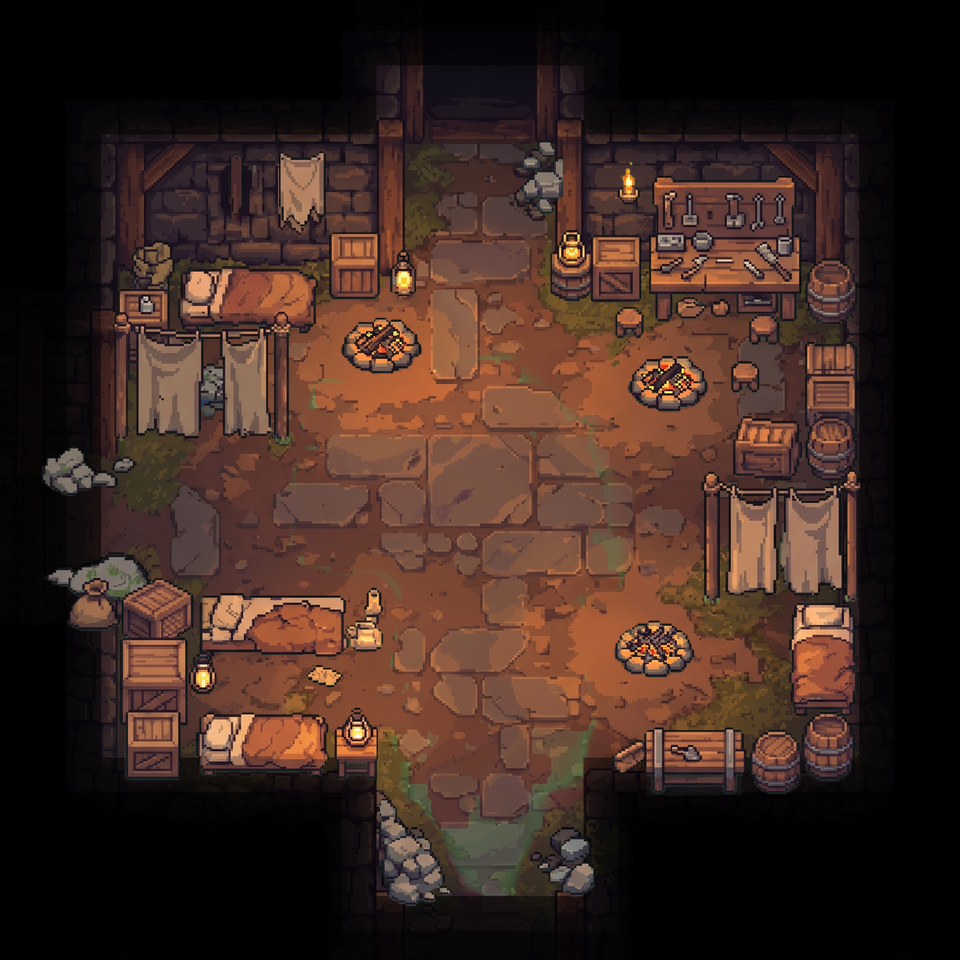
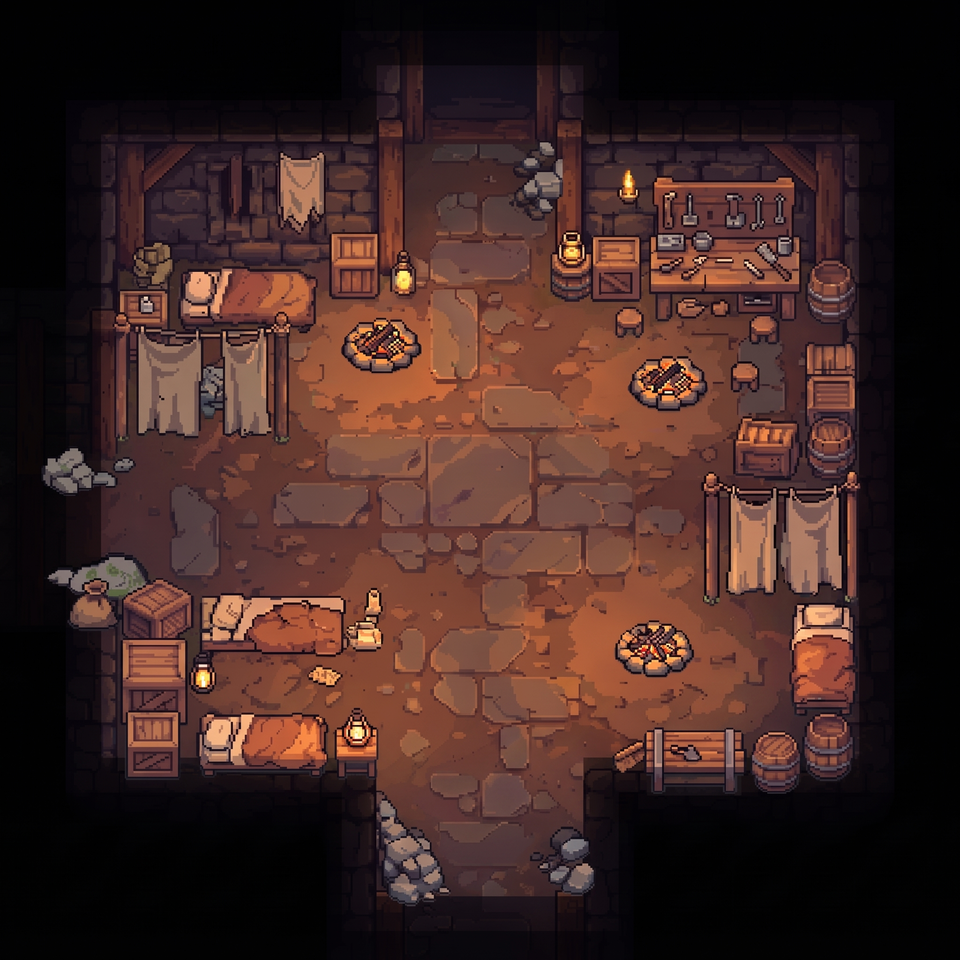
Sığınağın arka planındaki hatalı yeşil lekeleri temizle (v10.3)
Kullanıcının ürettiği yeni 2K görsel 960x960'a indirgenip haven.png
olarak kaydedildi - zeminde dağınık duran yeşil (yosun benzeri) hata
lekeleri kalktı. Oda geometrisi/mobilya konumları PİKSEL HİZASINDA aynı
kaldığı doğrulandı (dış duvar sınırı eski/yeni arasında ~1px fark),
yani world.ts'teki ZEMIN ve blockers'a hiç dokunulmadı - kullanıcı
zaten "üstündeki engeller aynı kalsın" dedi.

diff --git a/lib/game/data.ts b/lib/game/data.ts
@@ -1,6 +1,6 @@
 /** Oyun surumu. Her yayina cikan degisiklikte 0.1 artar: 0.1, 0.2 ... 0.9,
  *  sonra 1.0, 1.1 diye devam eder. Ekranin sol altinda gorunur. */
-export const SURUM='10.2';
+export const SURUM='10.3';
 /** Gelisim asamasi. Oyun oynanabilir ama icerik ve sistemler (item seti, dil
  *  secenegi, masaustu arayuzu) hala eksik - yani alfa. Beta'ya gecisi bu sabit
  *  tasir; surum numarasiyla ayri tutuldu ki 1.x sayimi bozulmasin. */
